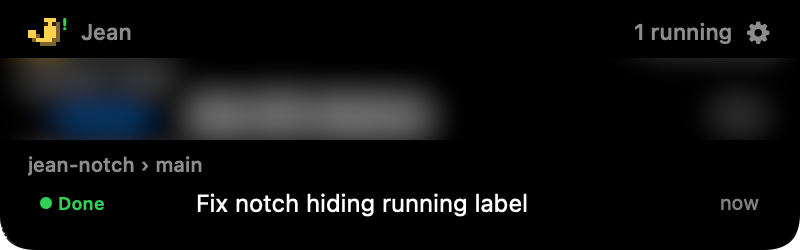
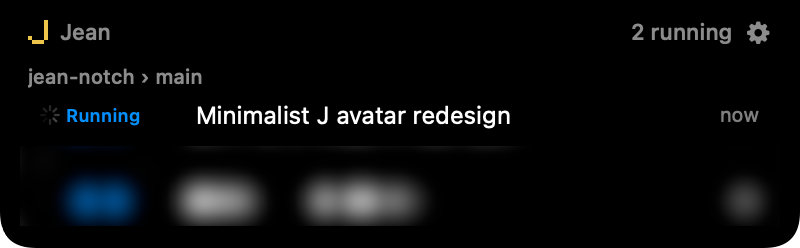
Retake README screenshots with the thin J
Collapsed shot is cropped to the notch height. In the expanded shot the
other project's rows are blurred and the corners are transparent.

diff --git a/README.md b/README.md
@@ -13,11 +13,11 @@ running [Jean](https://github.com/coollabsio/jean) session. It is separate from 
 Jean's built-in WebSocket server.
 
 <p align="center">
-  <img src="assets/notch-collapsed.png" width="380" alt="Collapsed notch: the mascot and 2 running sessions"><br>
+  <img src="assets/notch-collapsed.png" width="380" alt="Collapsed notch: the thin J and the number of running sessions"><br>
   <img src="assets/notch-expanded.png" width="400" alt="Expanded notch: Jean on the left of the notch, the running count on the right, and sessions grouped by project and worktree (one row blurred)">
 </p>
 
-- **Collapsed:** a black shape that blends with the notch. Left: the mascot and the number of
+- **Collapsed:** a black shape that blends with the notch. Left: the J and the number of
   running sessions. Right: a dot for the most urgent state (orange = waiting for you,
   red = failed, green = done and not seen yet). A gray bolt means Jean is offline.
 - **Expanded** (on hover, and for ~4 s after an alert): sessions grouped by
